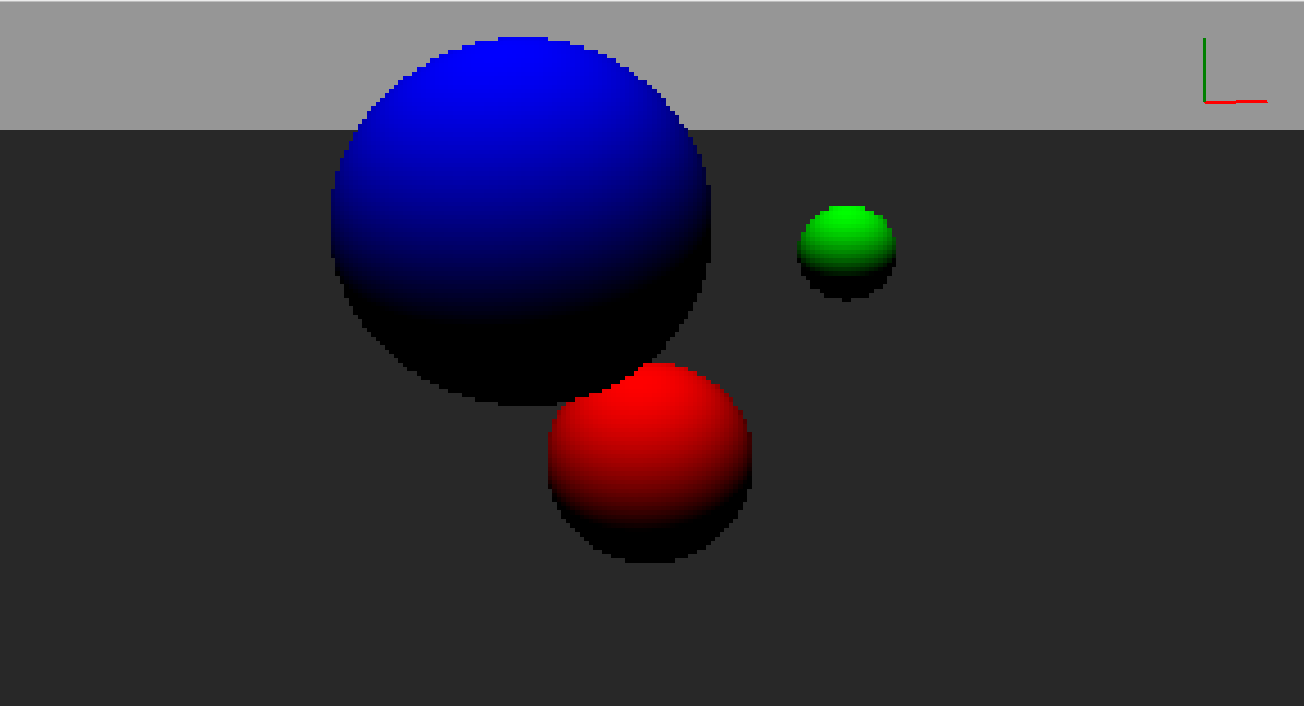
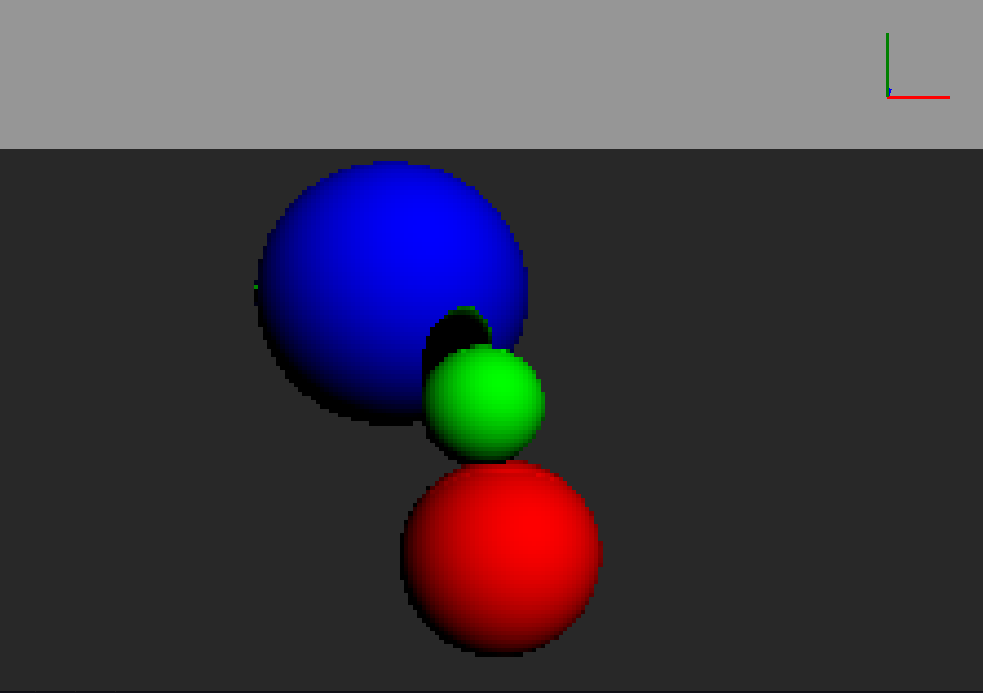
readme

Changed region(s): [[0.0, 0.0303, 1.0, 0.9697], [0.6104, 0.2727, 0.7019, 0.4242], [0.885, 0.0606, 0.9766, 0.1515]]

diff --git a/Camara.cs b/Camara.cs
@@ -76,7 +76,7 @@ public class Camara {
                 App.window.pixel[index].color = Color.FromArgb(255,(int)col.x,(int)col.y,(int)col.z);
 
                 currentr.origin = currentr.f(time[t]) + normal.unit();
-                currentr.direction = normal.unit();
+                currentr.direction = currentr.direction.unit()*normal.unit();
             }
         }
     }
